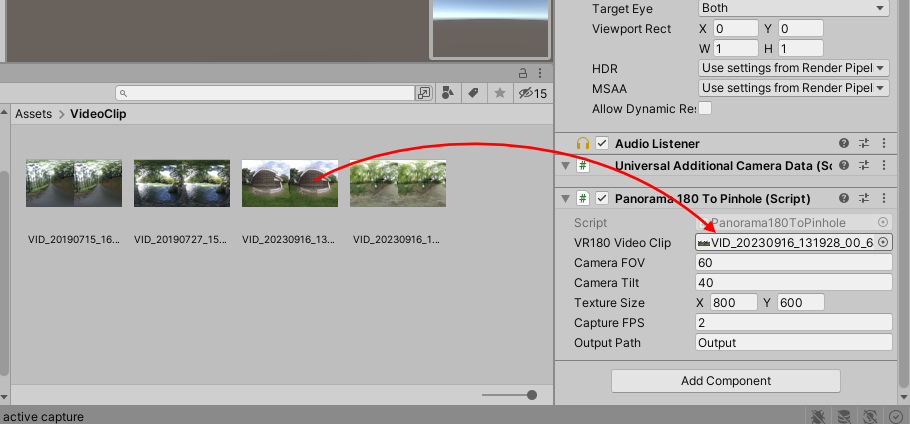
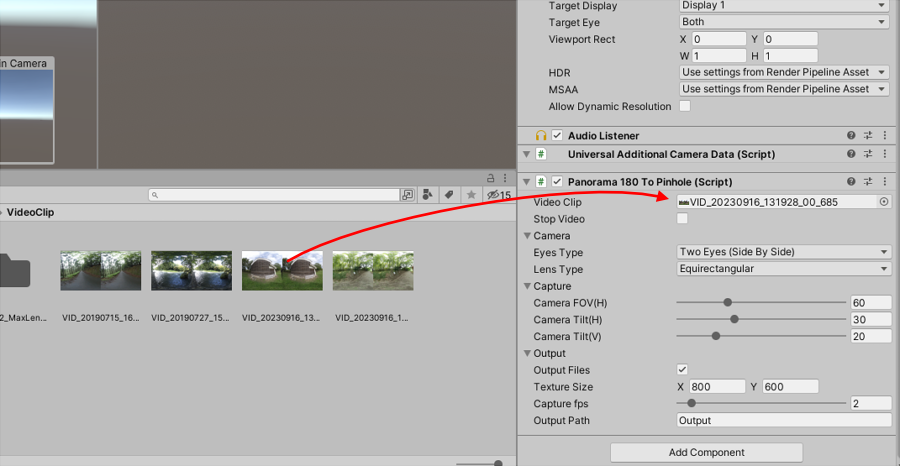
Update readme.

diff --git a/Assets/Panorama180ToPinhole/Scripts/Panorama180ToPinhole.cs b/Assets/Panorama180ToPinhole/Scripts/Panorama180ToPinhole.cs
@@ -6,6 +6,8 @@ using UnityEngine.Video;
 using System;
 using System.IO;
 
+#pragma warning disable 0414
+
 namespace Panorama180ToPinhole
 {
     [RequireComponent(typeof(Camera))]
@@ -23,7 +25,7 @@ namespace Panorama180ToPinhole
             FishEye
         }
 
-        [SerializeField] [HideInInspector] VideoClip VR180VideoClip;   // VR180のmp4を指定.
+        [SerializeField] [HideInInspector] VideoClip PanoramaVideoClip;   // パノラマ180または魚眼のmp4を指定.
         [SerializeField] [HideInInspector] bool StopVideo = false;
 
         // カメラのパラメータ.
@@ -367,20 +369,20 @@ namespace Panorama180ToPinhole
         void InitVideo()
         {
             if (m_videoG == null || m_HalfSphere == null) return;
-            if (VR180VideoClip == null) return;
+            if (PanoramaVideoClip == null) return;
 
             MeshRenderer meshR = m_HalfSphere.GetComponent<MeshRenderer>();
             if (meshR == null) return;
             Material mat = meshR.sharedMaterial;
 
             m_videoPlayer = m_videoG.GetComponent<VideoPlayer>();
-            m_videoPlayer.clip = VR180VideoClip;
+            m_videoPlayer.clip = PanoramaVideoClip;
             m_videoPlayer.renderMode = VideoRenderMode.RenderTexture;
             m_videoPlayer.aspectRatio = VideoAspectRatio.Stretch;
 
             if (m_backgroundRT == null) {
-                int texWidth  = (int)VR180VideoClip.width;
-                int texHeight = (int)VR180VideoClip.height;
+                int texWidth  = (int)PanoramaVideoClip.width;
+                int texHeight = (int)PanoramaVideoClip.height;
                 m_backgroundRT = new RenderTexture(texWidth, texHeight, 16, RenderTextureFormat.ARGB32);
                 m_backgroundRT.Create();
                 m_backgroundRT.name = "backgroundRenderTexture";

diff --git a/Assets/Panorama180ToPinhole/Editor/Panorama180ToPinholeEditor.cs b/Assets/Panorama180ToPinhole/Editor/Panorama180ToPinholeEditor.cs
@@ -25,7 +25,7 @@ namespace Panorama180ToPinhole
         public override void OnInspectorGUI () {
             serializedObject.Update();
 
-            var VR180VideoClip = serializedObject.FindProperty("VR180VideoClip");
+            var PanoramaVideoClip = serializedObject.FindProperty("PanoramaVideoClip");
             var StopVideo = serializedObject.FindProperty("StopVideo");
 
             var CameraParam_foldout = serializedObject.FindProperty("CameraParam_foldout");
@@ -48,7 +48,7 @@ namespace Panorama180ToPinhole
 
             GUI.enabled = true;
 
-            VR180VideoClip.objectReferenceValue = (VideoClip)EditorGUILayout.ObjectField("Video Clip", VR180VideoClip.objectReferenceValue, typeof(VideoClip), false);
+            PanoramaVideoClip.objectReferenceValue = (VideoClip)EditorGUILayout.ObjectField("Video Clip", PanoramaVideoClip.objectReferenceValue, typeof(VideoClip), false);
             StopVideo.boolValue = EditorGUILayout.Toggle("Stop Video", StopVideo.boolValue);
 
             CameraParam_foldout.boolValue = EditorGUILayout.Foldout(CameraParam_foldout.boolValue, "Camera");

diff --git a/readme.md b/readme.md
@@ -1,11 +1,13 @@
 # 概要
 
-Panorama180 To Pinholeは、パノラマ180のSideBySideの動画から1フレーム5枚のPinholeとしてのキャプチャを行いファイル出力するアセットです。     
+Panorama180 To Pinholeは、パノラマ180のSideBySide、またはFishEyeの動画から1フレーム5枚のPinholeとしてのキャプチャを行いファイル出力するアセットです。     
 パノラマ画像は魚眼のゆがみがありますが、これをゆがみのない画像にして出力します。     
 
 元の動画は以下のようなEquirectangularで180度分を使用した、ステレオの配置です。      
 ![panoramaToPinhole_01.jpg](./images/panoramaToPinhole_01.jpg)     
 この左側の画像が使用されます。     
+
+また、単眼の指定にも対応しています。      
 
 ## 開発環境
 
@@ -37,7 +39,7 @@ Panorama180ToPinholeコンポーネントが追加されました。
 ![panoramaToPinhole_05.png](./images/panoramaToPinhole_05.png)     
 
 パノラマ180(SideBySide)の動画をプロジェクトにインポートします。      
-これをPanorama180ToPinholeコンポーネントの"VR180 Video Clip"にドロップします。     
+これをPanorama180 To Pinholeコンポーネントの"Video Clip"にドロップします。     
 ![panoramaToPinhole_06.png](./images/panoramaToPinhole_06.png)     
 
 ### Play
@@ -63,10 +65,15 @@ Panorama180ToPinholeコンポーネントのパラメータの説明です。
 
 |パラメータ名|説明|     
 |---|---|     
-|VR180 Video Clip|パノラマ180ステレオ(Side By Side)の動画|     
-|Camera FOV|Pinhole画像を作成するカメラの視野角度（度数）|     
-|Camera Tilt|カメラの視線方向からの向きのずれ（度数）<br>![panoramaToPinhole_09.png](./images/panoramaToPinhole_09.png)<br>左右のカメラである"camera_1"、"camera_2"はY軸中心で指定の角度分傾きます。<br>上下のカメラである"camera_3"、"camera_4"はX軸中心で指定の角度分傾きます。|     
-|Texture Size|出力するテクスチャサイズをピクセル数で指定|     
-|Capture FPS|1秒でサンプリングするフレーム数。<br>1.0の場合は、1秒ごとに1フレーム分（合計5枚）が出力されることになります。|     
-|Output Path|出力フォルダ。<br>相対パスで指定した場合は、Projectのルートからのパスになります。絶対パス指定も可能です（フォルダ選択のUIは作ってません、、、）。|     
+|Video Clip|パノラマ180ステレオ(Side By Side)の動画、<br>FishEyeの動画を指定。<br>単眼、パノラマのどちらでも指定できます。|     
+|Stop Video|再生中の動画を一時停止します。|     
+|Camera - Eye Type|Single Eye : 動画は単眼<br>Two Sides(Side By Side) : 動画はステレオ（Side By Side）|     
+|Camera - Lens Type|EquirectangularまたはFish Eyeを選択。|     
+|Capture - Camera FOV(H)|Pinhole画像を作成するカメラの垂直視野角度（度数）|     
+|Capture - Camera Tilt(H)|カメラの視線方向からの水平の向きのずれ（度数）<br>![panoramaToPinhole_09.png](./images/panoramaToPinhole_09.png)<br>左右のカメラである"camera_1"、"camera_2"はY軸中心で指定の角度分傾きます。|     
+|Capture - Camera Tilt(V)|カメラの視線方向からの垂直の向きのずれ（度数）<br>上下のカメラである"camera_3"、"camera_4"はX軸中心で指定の角度分傾きます。|     
+|Output - Output Files|Pinholeの静止画を出力する場合はOnにします。|     
+|Output - Texture Size|出力するテクスチャサイズをピクセル数で指定|     
+|Output - Capture fps|1秒でサンプリングするフレーム数。<br>1.0の場合は、1秒ごとに1フレーム分（合計5枚）が出力されることになります。|     
+|Output - Output Path|出力フォルダ。<br>相対パスで指定した場合は、Projectのルートからのパスになります。絶対パス指定も可能です（フォルダ選択のUIは作ってません、、、）。|     
 
